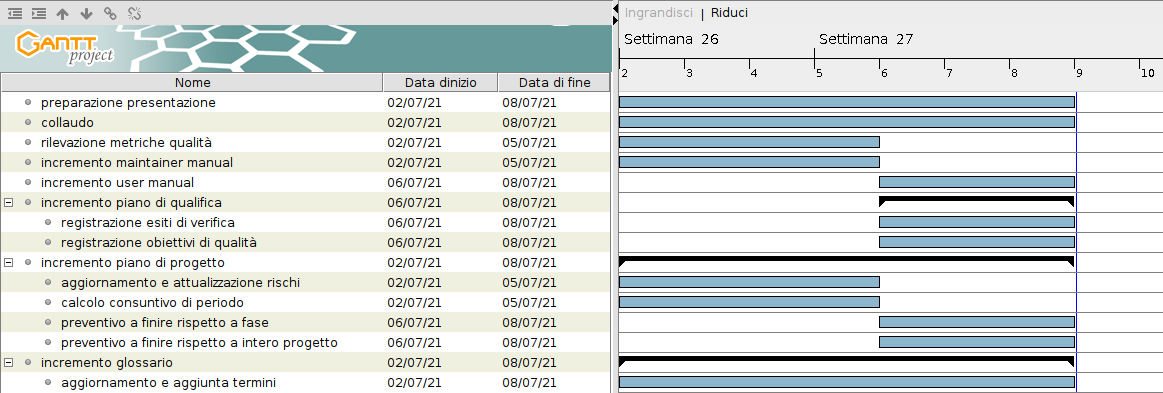
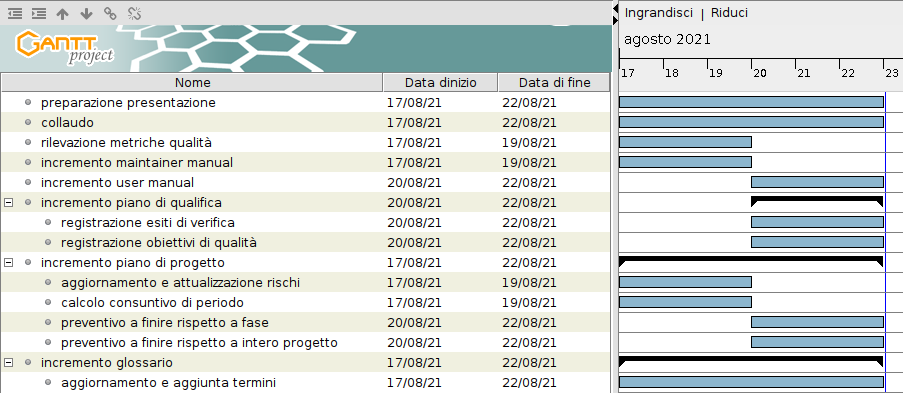
modifica diagrammi gantt e date RA

diff --git a/RQ/Documenti Esterni/Piano di Progetto/sezioni/pianificazione.tex b/RQ/Documenti Esterni/Piano di Progetto/sezioni/pianificazione.tex
@@ -640,7 +640,7 @@ In base alle attività pianificate negli incrementi e alla loro distribuzione ne
 \end{figure}
 
 \subsection{Validazione e collaudo}
-\textit{Periodo: dal 2021-06-11 al 2021-07-02}\\
+\textit{Periodo: dal 2021-07-09 al 2021-08-23}\\
 L'inizio di questa fase è il giorno della scadenza della \textit{Revisione di Qualifica} e la data di fine coincide con la data di consegna dei documenti in vista della \textit{Revisione di Accettazione}.\\
 Le attività di questa fase sono:
 \begin{itemize}
@@ -671,8 +671,8 @@ Gli obbiettivi che il gruppo di pone di soddisfare in questo periodo sono i segu
     \item Incremento della documentazione per verifica e miglioramento continuo.
 \end{itemize}
 \subsubsubsection{Periodo}
-Il gruppo ritiene che per il raggiungimento degli obbiettivi serviranno sette giorni di lavoro;\\
-Il periodo interessato sarà dal 2021/06/11 al 2021/06/17
+Il gruppo ritiene che per il raggiungimento degli obbiettivi serviranno dieci giorni di lavoro;\\
+Il periodo interessato sarà dal 2021/07/09 al 2021/07/18
 \subsubsubsection{Ruoli attivi}
 Il gruppo ritiene che durante questo incremento saranno attivi i seguenti ruoli:
 \begin{itemize}
@@ -718,7 +718,7 @@ Per soddisfare gli obbiettivi preposti il gruppo ritiene di dover svolgere le se
                 \item calcolo del preventivo a finire rispetto al completamento del progetto.
           \end{itemize}
 \end{itemize}
-
+\pagebreak
 \subsubsubsection{Diagramma di Gantt}
 \begin{figure}[!ht]
     \caption{Diagramma di Gantt dell'incremento 1}
@@ -738,8 +738,8 @@ Gli obbiettivi che il gruppo di pone di soddisfare in questo periodo sono i segu
     \item Incremento della documentazione per verifica e miglioramento continuo.
 \end{itemize}
 \subsubsubsection{Periodo}
-Il gruppo ritiene che per il raggiungimento degli obbiettivi serviranno sette giorni di lavoro;\\
-Il periodo interessato sarà dal 2021/06/18 al 2021/06/24
+Il gruppo ritiene che per il raggiungimento degli obbiettivi serviranno dodici giorni di lavoro;\\
+Il periodo interessato sarà dal 2021/07/19 al 2021/07/30
 \subsubsubsection{Ruoli attivi}
 Il gruppo ritiene che durante questo incremento saranno attivi i seguenti ruoli:
 \begin{itemize}
@@ -801,8 +801,8 @@ Gli obbiettivi che il gruppo di pone di soddisfare in questo periodo sono i segu
     \item Incremento della documentazione per verifica e miglioramento continuo.
 \end{itemize}
 \subsubsubsection{Periodo}
-Il gruppo ritiene che per il raggiungimento degli obbiettivi serviranno otto giorni di lavoro;\\
-Il periodo interessato sarà dal 2021/06/25 al 2021/07/01
+Il gruppo ritiene che per il raggiungimento degli obbiettivi serviranno diciassette giorni di lavoro;\\
+Il periodo interessato sarà dal 2021/07/31 al 2021/08/16
 \subsubsubsection{Ruoli attivi}
 Il gruppo ritiene che durante questo incremento saranno attivi i seguenti ruoli:
 \begin{itemize}
@@ -857,8 +857,8 @@ Gli obbiettivi che il gruppo di pone di soddisfare in questo periodo sono i segu
     \item Incremento della documentazione per verifica e miglioramento continuo.
 \end{itemize}
 \subsubsubsection{Periodo}
-Il gruppo ritiene che per il raggiungimento degli obbiettivi serviranno otto giorni di lavoro;\\
-Il periodo interessato sarà dal 2021/07/02 al 2021/07/08
+Il gruppo ritiene che per il raggiungimento degli obbiettivi serviranno sei giorni di lavoro;\\
+Il periodo interessato sarà dal 2021/08/17 al 2021/08/22
 \subsubsubsection{Ruoli attivi}
 Il gruppo ritiene che durante questo incremento saranno attivi i seguenti ruoli:
 \begin{itemize}
@@ -901,6 +901,6 @@ In base alle attività pianificate negli incrementi e alla loro distribuzione ne
 \begin{figure}[!ht]
     \caption{Diagramma di Gantt dell'attività di Validazione e Collaudo}
     \vspace{5px}
-    \includegraphics[scale=0.3]{../../../Images/Diagrammi/Gantt/validazione_v3.png}
+    \includegraphics[scale=0.25]{../../../Images/Diagrammi/Gantt/validazione_v3.png}
     \centering
 \end{figure}
